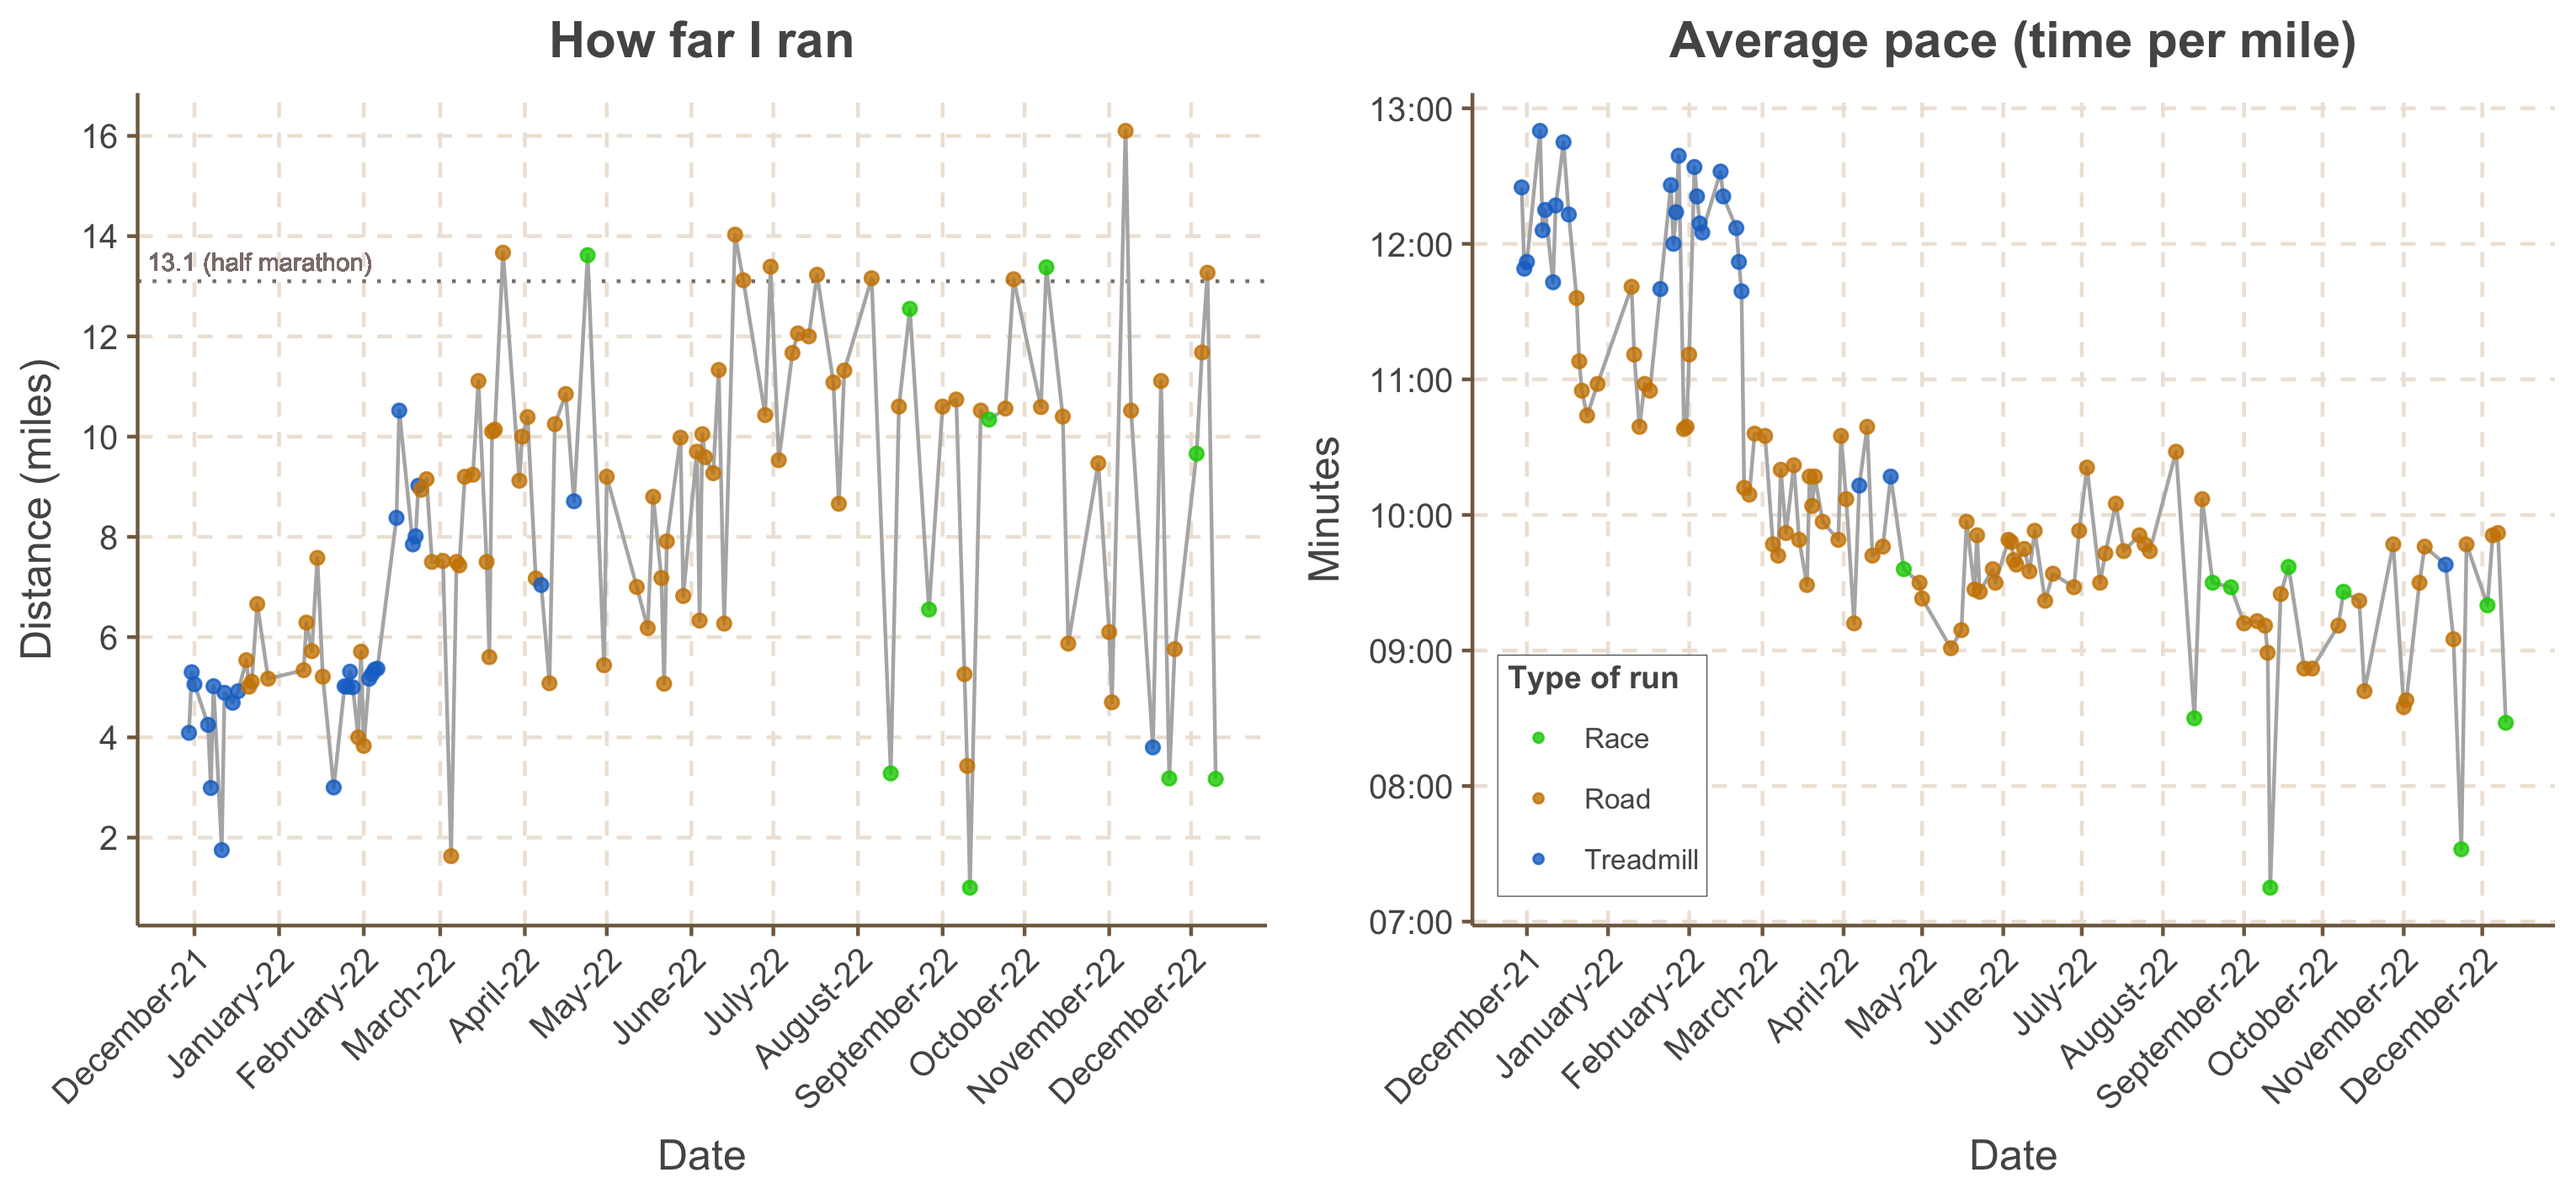
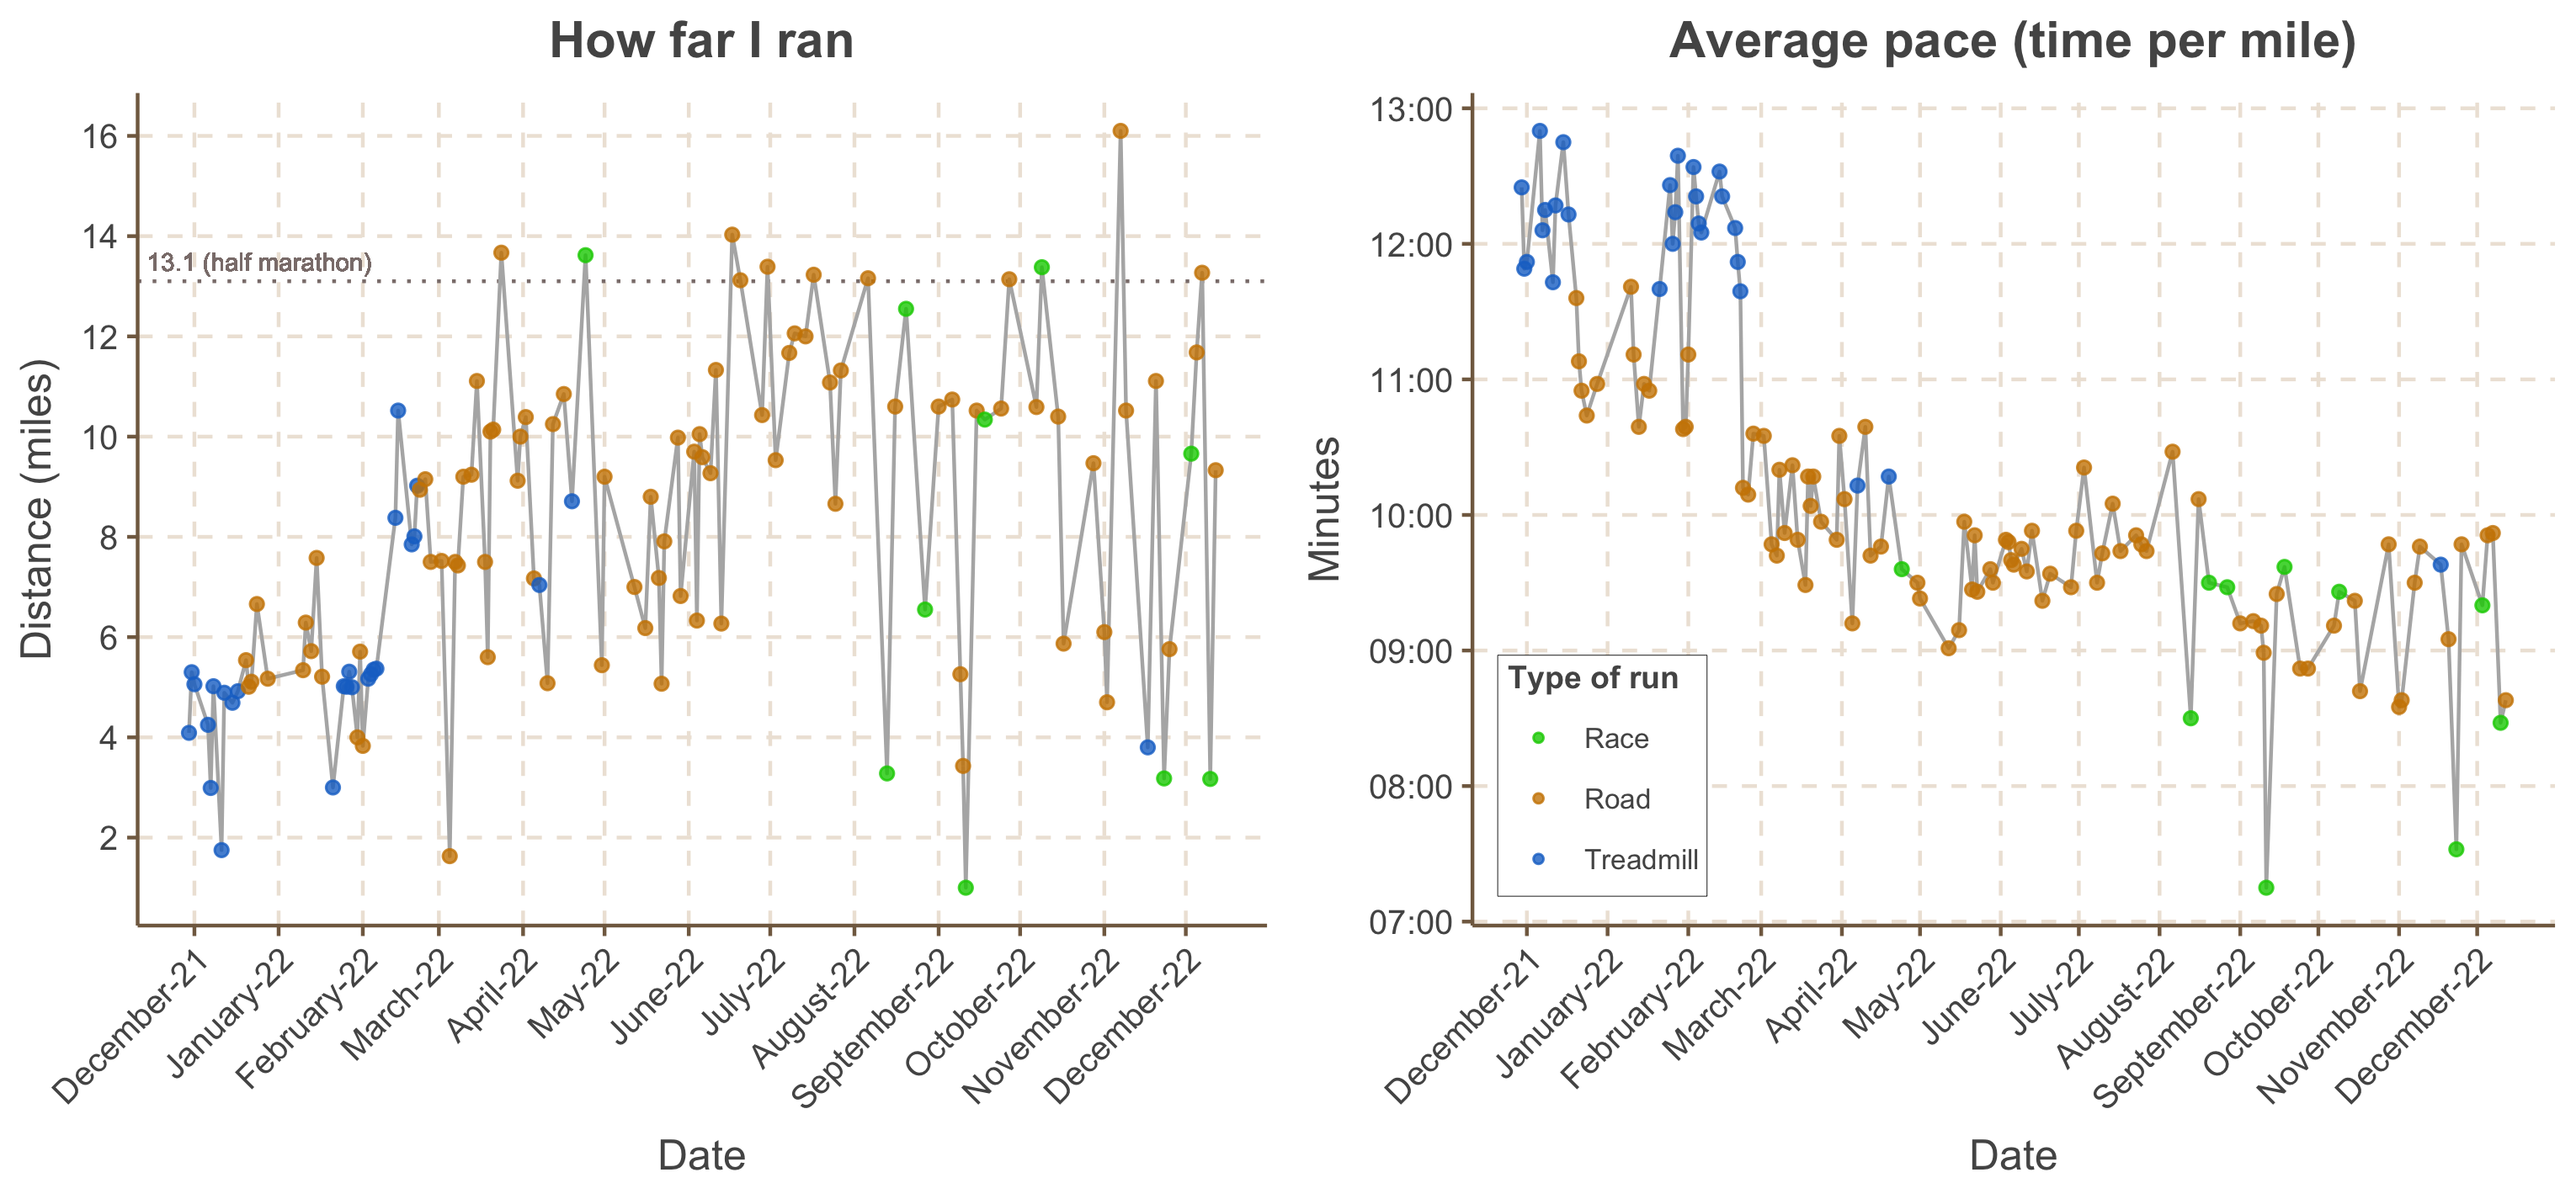
12/12/22

diff --git a/README.md b/README.md
@@ -25,7 +25,7 @@ ggarrange(p1, p2, nrow=1)
 sum(runningData$Miles)
 ```
 
-    ## [1] 967.99
+    ## [1] 977.32
 
 Average distance during the last 10 runs:
 
@@ -33,7 +33,7 @@ Average distance during the last 10 runs:
 mean(tail(runningData$Miles, 10))
 ```
 
-    ## [1] 8.825
+    ## [1] 8.148
 
 Excluding races:
 
@@ -41,4 +41,4 @@ Excluding races:
 mean(tail(runningData$Miles[runningData$Treadmill_Road != "Race"], 10))
 ```
 
-    ## [1] 9.251
+    ## [1] 9.237
